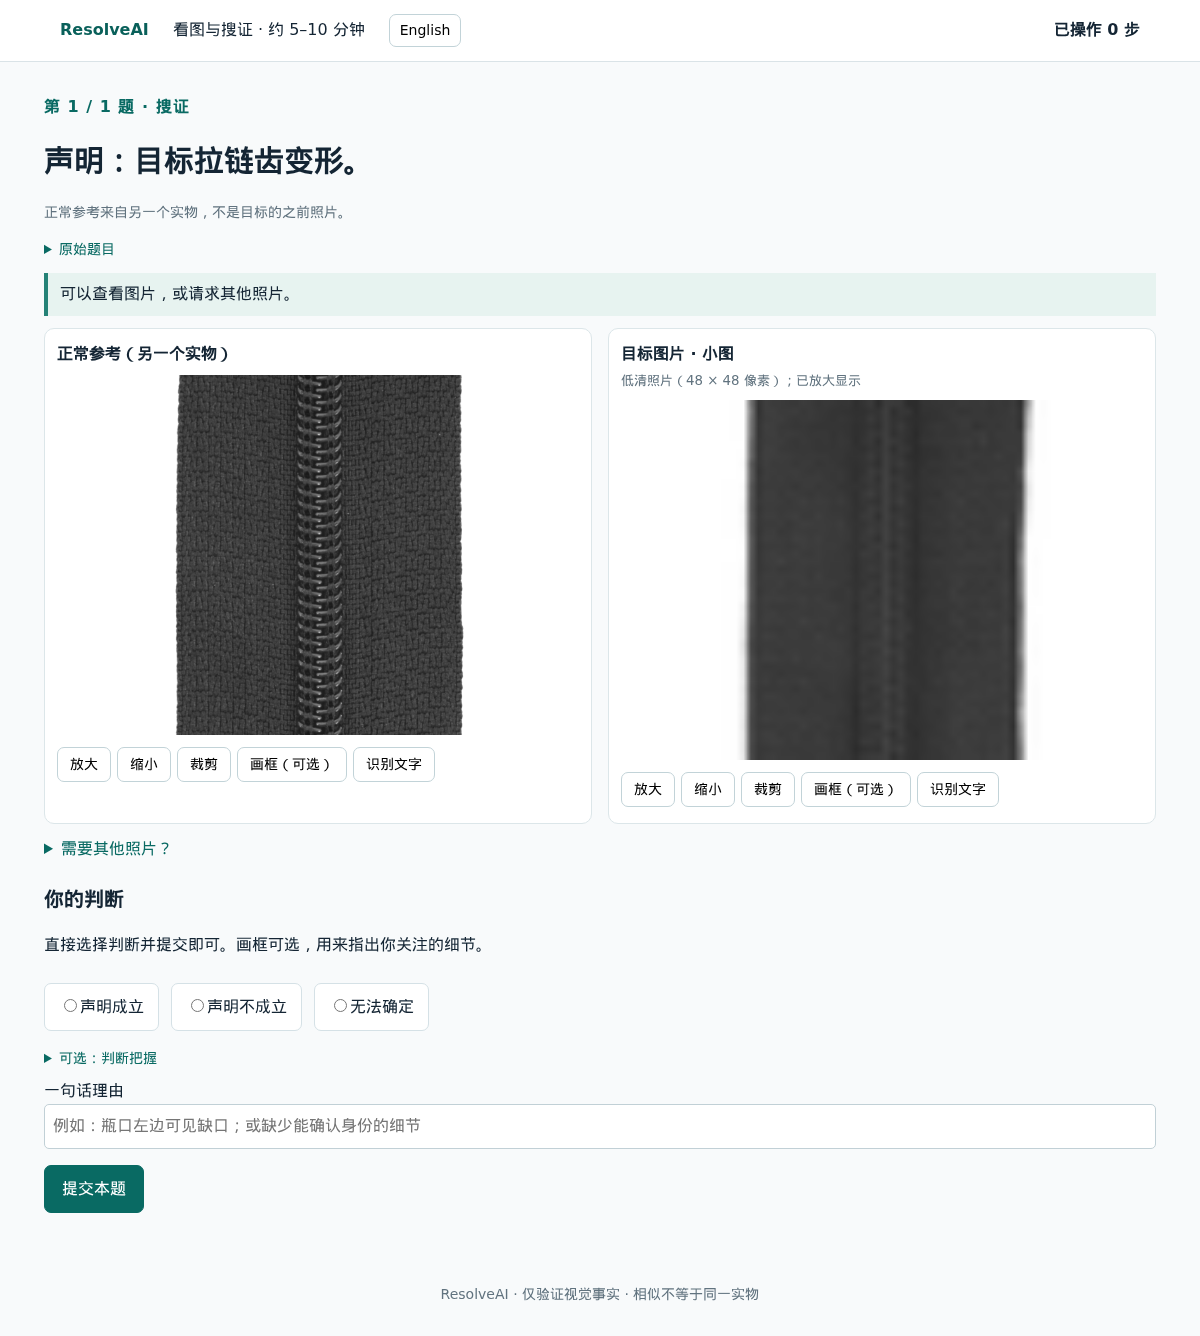
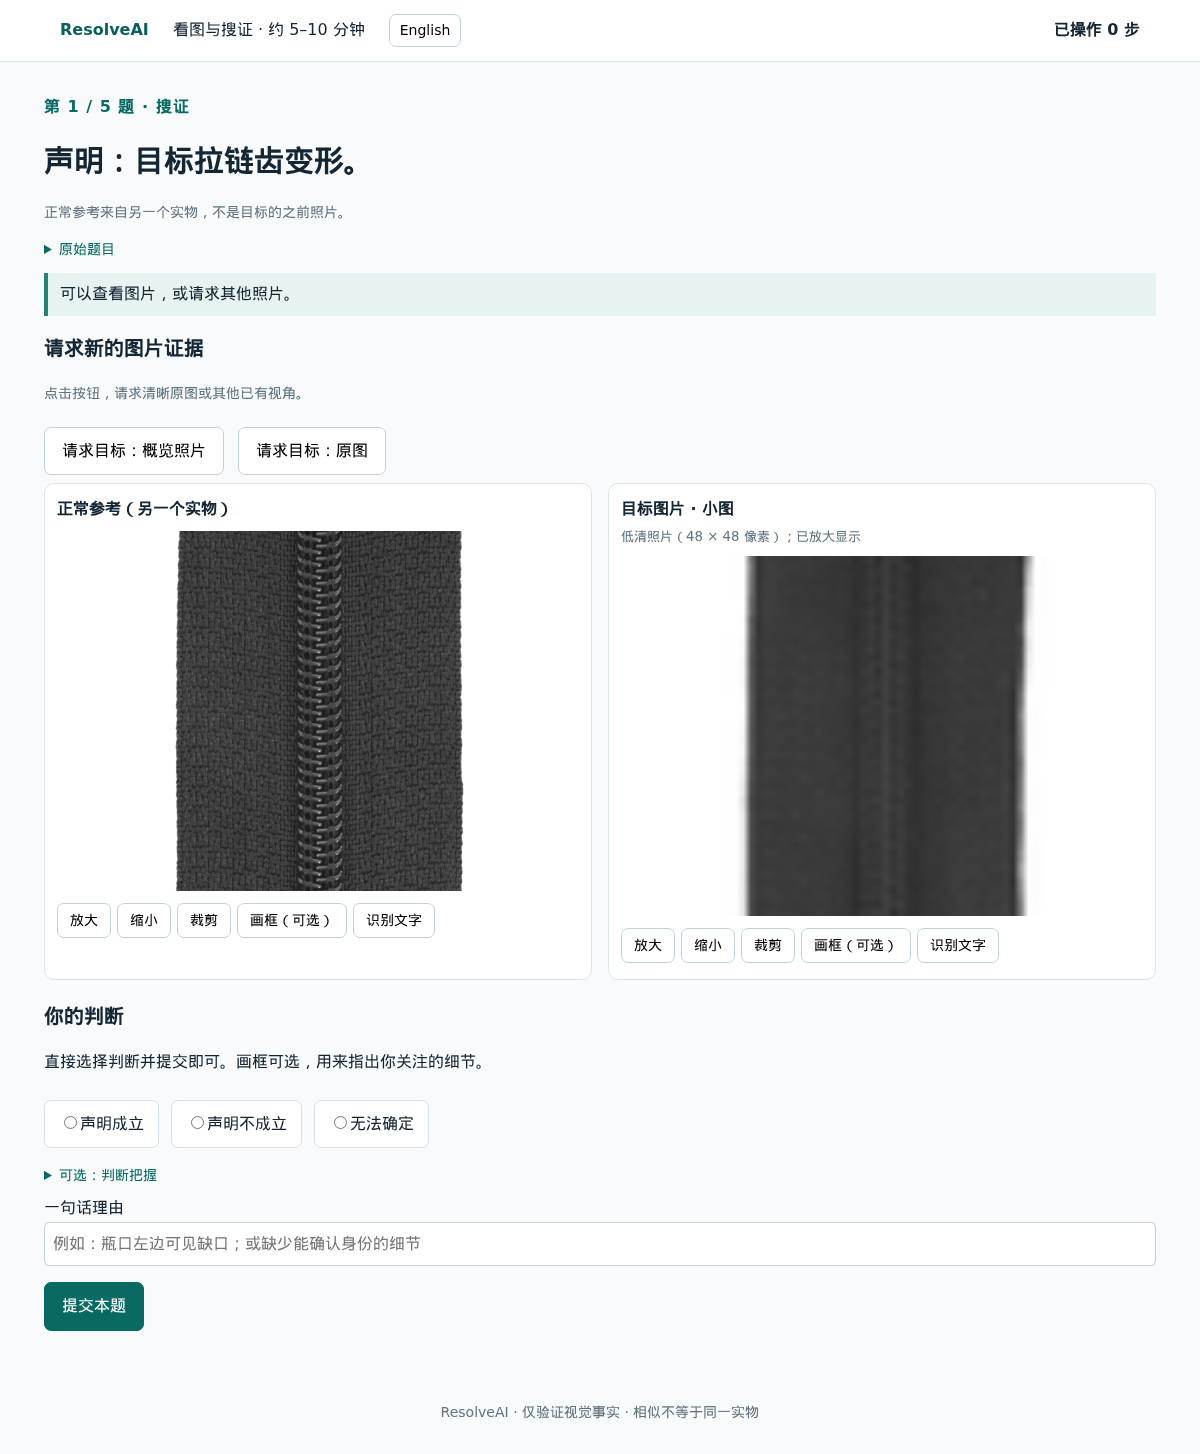
Make photo requests visible and explain fixed-evidence tasks

diff --git a/src/resolveai/web/app.js b/src/resolveai/web/app.js
@@ -194,8 +194,10 @@ async function picture(p) {
       b = p.source_bbox;
     function outline(box, color, dashed) {
       const a = [
-        Math.max(box[0], b[0]), Math.max(box[1], b[1]),
-        Math.min(box[2], b[2]), Math.min(box[3], b[3]),
+        Math.max(box[0], b[0]),
+        Math.max(box[1], b[1]),
+        Math.min(box[2], b[2]),
+        Math.min(box[3], b[3]),
       ];
       if (a[0] >= a[2] || a[1] >= a[3]) return;
       const x = ((a[0] - b[0]) / (b[2] - b[0])) * canvas.width;
@@ -332,7 +334,14 @@ async function picture(p) {
   return card;
 }
 function photoRequests(data) {
-  $("request-panel").hidden = data.condition !== "interactive";
+  $("request-title").hidden = data.condition !== "interactive";
+  $("request-note").textContent = t(
+    data.condition === "interactive"
+      ? "requestHint"
+      : data.condition === "initial"
+        ? "requestInitial"
+        : "requestFull",
+  );
   $("request-buttons").replaceChildren();
   if (data.condition !== "interactive") return;
   const o = data.request_options;
@@ -356,9 +365,7 @@ function photoRequests(data) {
                 ? t("view", Number(view.slice(5)))
                 : view;
         b.textContent =
-          subject +
-          " · " +
-          name +
+          t("requestPhoto", subject, name) +
           ((o.times || []).length > 1 ? " · " + time : "");
         b.onclick = () =>
           perform({ type: "request_photo", query: { object, time, view } });
@@ -368,6 +375,7 @@ function photoRequests(data) {
   }
 }
 async function show(data) {
+  const previousViews = new Set(state?.images?.map((p) => p.view_id) || []);
   state = data;
   $("preview-notice").hidden = !data.preview;
   if (data.role === "admin") {
@@ -469,9 +477,15 @@ async function show(data) {
         : t("actionError", f.code)
       : f.status === "unable_to_provide"
         ? t("unavailable")
-        : f.text_regions
-          ? t("textResult", f.text_regions.map((r) => r.text).join(" / "))
-          : t("actionDone");
+        : f.status === "provided"
+          ? t(
+              data.images.some((p) => !previousViews.has(p.view_id))
+                ? "photoProvided"
+                : "photoAlreadyShown",
+            )
+          : f.text_regions
+            ? t("textResult", f.text_regions.map((r) => r.text).join(" / "))
+            : t("actionDone");
   }
 }
 $("begin").onclick = () =>

diff --git a/src/resolveai/web/i18n.js b/src/resolveai/web/i18n.js
@@ -74,7 +74,25 @@ const UI_TEXT = {
     "直接选择判断并提交即可。画框可选，用来指出你关注的细节。",
     "Choose your answer and submit. Optionally mark a region to point out a detail.",
   ],
-  requestPanel: ["需要其他照片？", "Need other photos?"],
+  requestPanel: ["请求新的图片证据", "Request more photo evidence"],
+  requestHint: [
+    "点击按钮，请求清晰原图或其他已有视角。",
+    "Use the buttons to request an original photo or another existing view.",
+  ],
+  requestInitial: [
+    "本题只判断初始照片是否足够，不提供索证操作。",
+    "This task asks whether the initial photos are enough; requesting photos is unavailable.",
+  ],
+  requestFull: [
+    "本题已显示全部可获取照片，不提供索证操作。",
+    "All available photos are shown for this task; requesting photos is unavailable.",
+  ],
+  requestPhoto: ["请求{0}：{1}", "Request {0}: {1}"],
+  photoProvided: ["新照片已显示在上方。", "The new photo is shown above."],
+  photoAlreadyShown: [
+    "这张照片已在上方显示，没有新增图片。",
+    "This photo is already shown above; no new photo was added.",
+  ],
   optional: ["可选：判断把握", "Optional: confidence"],
   confidence: ["把握程度", "Confidence"],
   reason: ["一句话理由", "A short reason"],
@@ -199,8 +217,8 @@ const UI_TEXT = {
     "Confirm your final decision and evidence",
   ],
   initial: [
-    "本题只有这些图片。",
-    "These are the photos available for this task.",
+    "本题只看初始照片，判断现有材料是否足够。",
+    "Judge whether the initial photos are enough for this task.",
   ],
   interactive: [
     "可以查看图片，或请求其他照片。",
@@ -245,7 +263,7 @@ const STATIC_TEXT = {
   "#begin": "begin",
   ".original-claim summary": "original",
   "#answer-title": "answer",
-  "#request-panel summary": "requestPanel",
+  "#request-title": "requestPanel",
   ".optional summary": "optional",
   "#confidence-label": "confidence",
   "#reason-label": "reason",

diff --git a/src/resolveai/web/index.html b/src/resolveai/web/index.html
@@ -72,12 +72,13 @@
           <p class="muted" id="original"></p>
         </details>
         <div class="info" id="condition"></div>
+        <section id="request-panel">
+          <h2 id="request-title">请求新的图片证据</h2>
+          <p id="request-note" class="muted"></p>
+          <div id="request-buttons" class="toolrow"></div>
+        </section>
         <div id="pictures" class="grid"></div>
         <section id="tools">
-          <details id="request-panel" hidden>
-            <summary>需要其他照片？</summary>
-            <div id="request-buttons" class="toolrow"></div>
-          </details>
           <p id="feedback" class="muted" role="status"></p>
         </section>
         <section id="answer">

diff --git a/docs/human_study.zh-CN.md b/docs/human_study.zh-CN.md
@@ -14,7 +14,7 @@
 
 ## 五题怎样走
 
-前三题是搜证：分别只提供初始材料、允许索取材料、提供全部可获取材料。三种条件的顺序按人随机；图片已经并排显示，可直接对照查看。每种条件都可放大、缩小、裁剪、可选画框或 OCR（可用时）。只有允许索证的那题能请求额外材料。
+前三题是搜证：分别只提供初始材料、允许索取材料、提供全部可获取材料。三种条件的顺序按人随机；图片已经并排显示，可直接对照查看。每种条件都可放大、缩小、裁剪、可选画框或 OCR（可用时）。只有允许索证的那题能请求额外材料。“请求新的图片证据”直接显示在图片上方，不折叠；按钮标明“请求目标：原图”或具体对象／视角。其他条件明确说明不提供索证操作。成功请求后提示新照片已显示；重复请求已展示的照片会提示没有新增。
 
 后两题是独立图片审核：开始就显示完整可获取材料，同样能操作图片，选择结论，画框可选，**一次提交完成一题**。不再为同一声明重复五轮提问。每次“下一题”都进入另一个案件；不会是同一来源实物。新建题单同时避免重复物品类别；本次已冻结题库的迁移说明见下文。
 

diff --git a/docs/status.md b/docs/status.md
@@ -101,3 +101,7 @@ Human UI v4 displays low-resolution photos at a usable size, provides image oper
 ### 2026-10-06：去掉人工页面无明确结果的工具按钮
 
 人工界面去掉“比较”和“检查图片”：照片已并排显示，这些按钮没有提供新的、可理解的结果。裁剪后的“恢复整图”、画框后的“清除我的框”和可用时的“识别文字”直接显示在图片下，不再放在“更多”菜单。模型工具、题单、邀请和答案不变。
+
+### 2026-10-06：让索证入口直接可见
+
+“请求新的图片证据”改为展开的区域，允许索证的题直接显示原图／视角按钮；初始池题和完整池审核题写明不提供索证操作。新照片与重复返回的反馈区分，题库、实验条件和已保存回答保持原样。
